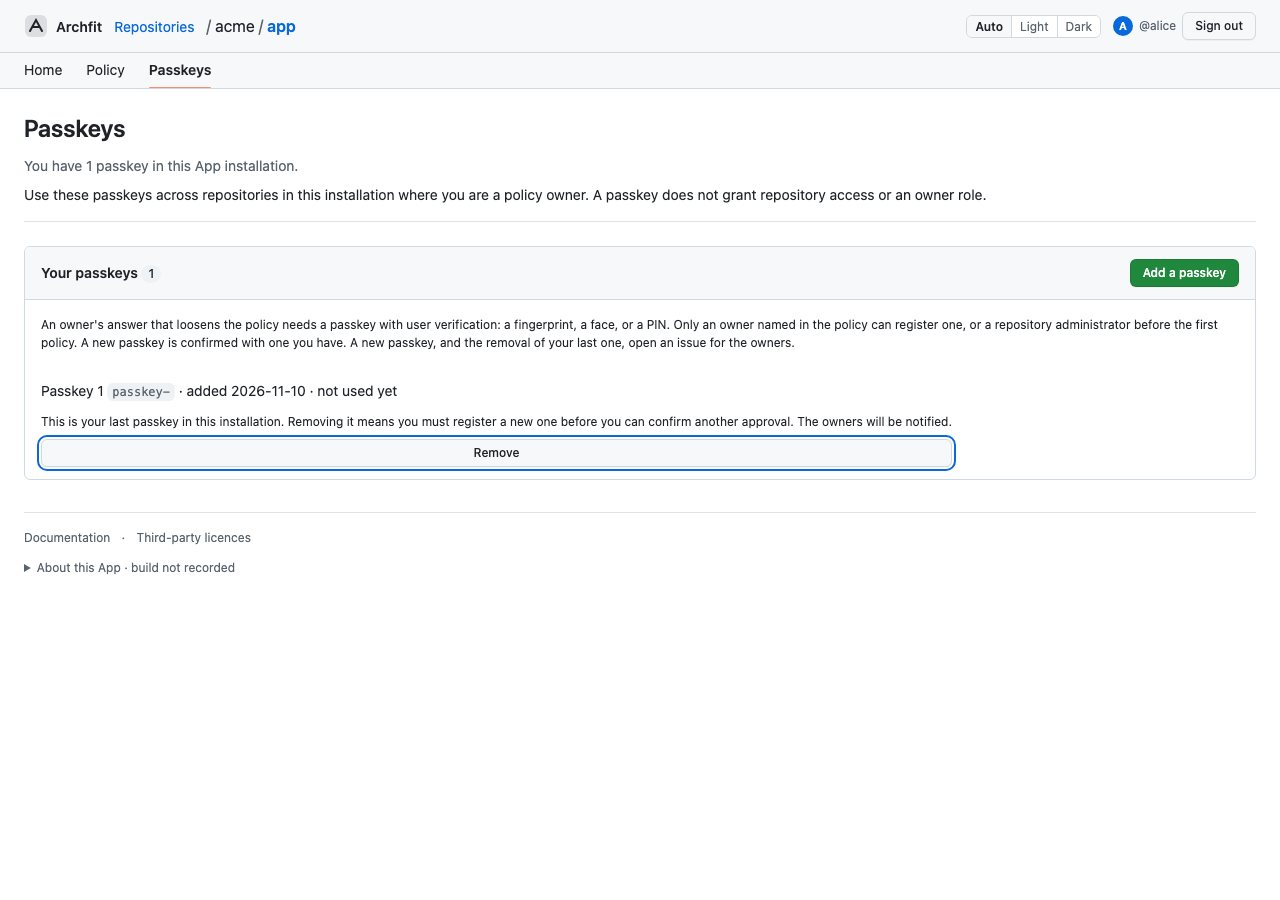
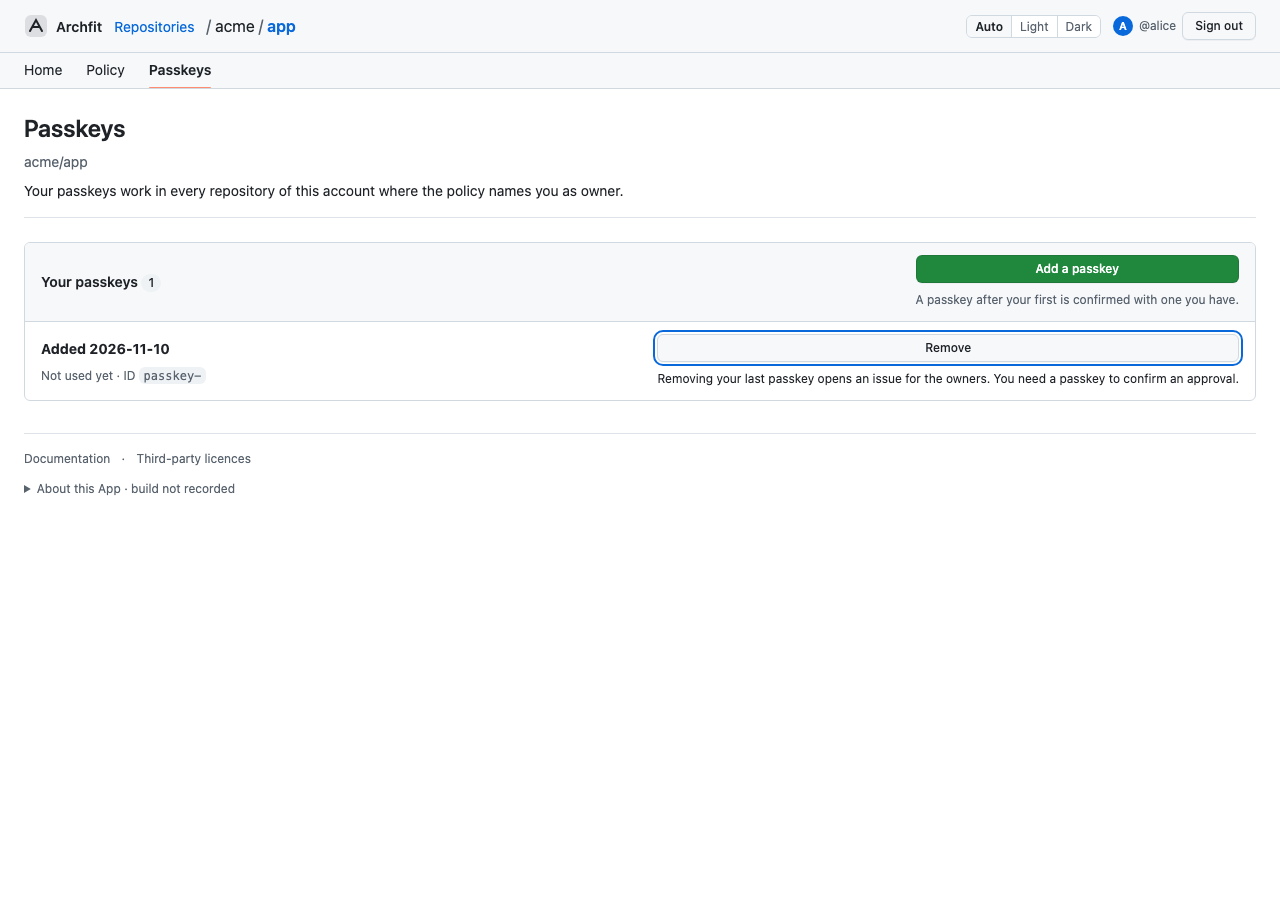
feat(web): passkeys list keys by date, names each Remove, and states one rule per control
The 60-word paragraph is gone. The scope sentence sits under the title; the add rule sits beside
Add a passkey; the last-key consequence sits beside its Remove. Keys are named Added <date>, with
last use and a short ID; each Remove names its key for screen readers. The page uses PageHead and
keeps the Back link for ?return=.

Changed region(s): [[0.0, 0.28, 0.9688, 0.56], [0.0, 0.1556, 0.7812, 0.2489], [0.0312, 0.5911, 0.1875, 0.6533]]

diff --git a/web/src/pages/Passkeys.svelte b/web/src/pages/Passkeys.svelte
@@ -1,5 +1,6 @@
 <script lang="ts">
   import Skeleton from '../components/Skeleton.svelte';
+  import PageHead from '../components/ui/PageHead.svelte';
   import { explain, explainLoad, getJSON, repoAPI, type ApiError, type Passkey, type Passkeys, type Session } from '../lib/api';
   import { firstJSON } from '../lib/early';
   import { addPasskey, removePasskey } from '../lib/passkey';
@@ -56,54 +57,44 @@
   <Skeleton rows={2} box={false} />
   <Skeleton rows={3} />
 {:else}
-  <div class="page-head">
-    <div class="stack-sm">
-      <h1>Passkeys</h1>
-      <p class="lede">
-        {list.length
-          ? `You have ${list.length} ${list.length === 1 ? 'passkey' : 'passkeys'} in this App installation.`
-          : 'You have no passkey in this App installation yet.'}
-      </p>
-      <p>Use these passkeys across repositories in this installation where you are a policy owner. A passkey does not grant repository access or an owner role.</p>
-      {#if returnTo}<a href={returnTo}>Back to {returnTo.includes('/requests/') ? 'request' : returnTo.includes('/policy') ? 'policy' : 'approval'}</a>{/if}
-    </div>
-  </div>
+  <PageHead title="Passkeys" repo={route.fullName}>
+    <p>Your passkeys work in every repository of this account where the policy names you as owner.</p>
+    {#if returnTo}<a href={returnTo}>Back to {returnTo.includes('/requests/') ? 'request' : returnTo.includes('/policy') ? 'policy' : 'approval'}</a>{/if}
+  </PageHead>
 
   <section class="box" aria-labelledby="your-passkeys">
     <div class="box-head">
       <h2 class="title-box" id="your-passkeys">Your passkeys <span class="counter">{list.length}</span></h2>
-      <button class="btn sm primary" type="button" disabled={busy} onclick={add}>Add a passkey</button>
-    </div>
-    <div class="box-body stack-sm">
-      <p class="small">
-        An owner's answer that loosens the policy needs a passkey with user verification: a fingerprint, a face, or a PIN.
-        Only an owner named in the policy can register one, or a repository administrator before the first policy.
-        {#if list.length}A new passkey is confirmed with one you have.{/if}
-        A new passkey, and the removal of your last one, open an issue for the owners.
-      </p>
+      <div class="stack-sm passkey-add">
+        <button class="btn sm primary" type="button" disabled={busy} onclick={add}>Add a passkey</button>
+        <p class="small muted">{list.length ? 'A passkey after your first is confirmed with one you have.' : 'Only an owner named in the policy can add one.'}</p>
+      </div>
     </div>
     {#if list.length}
       <ul class="plain" aria-label="Your passkeys">
-        {#each list as p, i (p.id)}
+        {#each list as p (p.id)}
           <li class="box-row row-between">
-            <span>
-              Passkey {i + 1} <code class="muted">{p.id.slice(0, 8)}</code> · added {day(p.created)} ·
-              {p.last_used ? `last used ${day(p.last_used)}` : 'not used yet'}
+            <span class="stack-sm">
+              <strong>Added {day(p.created)}</strong>
+              <span class="small muted">{p.last_used ? `Last used ${day(p.last_used)}` : 'Not used yet'} · ID <code>{p.id.slice(0, 8)}</code></span>
             </span>
-            <div class="stack-sm">
-            {#if list.length === 1}<p class="small" id="last-key">This is your last passkey in this installation. Removing it means you must register a new one before you can confirm another approval. The owners will be notified.</p>{/if}
-            {#if removing === p.id}
-              <span class="btn-group">
-                <button class="btn sm" type="button" aria-describedby={list.length === 1 ? 'last-key' : undefined} disabled={busy} onclick={() => remove(p.id)}>Confirm removal</button>
-                <button class="btn sm" type="button" disabled={busy} onclick={() => (removing = '')}>Keep it</button>
-              </span>
-            {:else}
-              <button class="btn sm" type="button" aria-describedby={list.length === 1 ? 'last-key' : undefined} disabled={busy} onclick={() => (removing = p.id)}>Remove</button>
-            {/if}
+            <div class="stack-sm passkey-remove">
+              {#if removing === p.id}
+                <span class="btn-group">
+                  <button class="btn sm" type="button" aria-describedby={list.length === 1 ? 'last-key' : undefined} disabled={busy} onclick={() => remove(p.id)}>Confirm removal</button>
+                  <button class="btn sm" type="button" disabled={busy} onclick={() => (removing = '')}>Keep it</button>
+                </span>
+              {:else}
+                <button class="btn sm" type="button" aria-label={`Remove the passkey added ${day(p.created)} (ID ${p.id.slice(0, 8)})`}
+                  aria-describedby={list.length === 1 ? 'last-key' : undefined} disabled={busy} onclick={() => (removing = p.id)}>Remove</button>
+              {/if}
+              {#if list.length === 1}<p class="small" id="last-key">Removing your last passkey opens an issue for the owners. You need a passkey to confirm an approval.</p>{/if}
             </div>
           </li>
         {/each}
       </ul>
+    {:else}
+      <p class="box-body muted">No passkeys yet. Add one to approve policy changes.</p>
     {/if}
     {#if busy}<p class="box-foot" role="status">Waiting for your passkey…</p>{/if}
     {#if notice}<p class="flash success" role="status">{notice}</p>{/if}

diff --git a/web/e2e/passkey.spec.ts b/web/e2e/passkey.spec.ts
@@ -62,13 +62,13 @@ test('passkeys: the first passkey registers with no step-up, and the list shows 
   const list: Listed[] = [];
   const writes = await open(p, page, registry(list).handlers);
   await expect(p.getByRole('heading', { name: 'Passkeys', level: 1 })).toBeVisible();
-  await expect(p.locator('.lede')).toHaveText('You have no passkey in this App installation yet.');
+  await expect(p.getByText('No passkeys yet. Add one to approve policy changes.', { exact: true })).toBeVisible();
   await expectClean(p);
 
   await p.getByRole('button', { name: 'Add a passkey' }).click();
   await expect(p.getByRole('status')).toHaveText('Passkey registered. An issue tells you and the owners.');
-  await expect(p.locator('.lede')).toHaveText('You have 1 passkey in this App installation.');
-  await expect(p.getByRole('listitem')).toContainText([/^Passkey 1 \S+ · added 2026-11-10 ·\s+not used yet/]);
+  await expect(p.locator('.counter')).toHaveText('1');
+  await expect(p.getByRole('listitem')).toContainText([/^Added 2026-11-10\s+Not used yet/]);
   expect(writes.map((w) => new URL(w.url()).pathname)).toEqual([`${api}/register`, `${api}/register/finish`]);
   expect(writes[0].postDataJSON()).toEqual({});
   await expectClean(p);
@@ -95,19 +95,19 @@ test('passkeys: a second passkey and a removal are each confirmed with a passkey
     return [200, { notice: 'Passkey removed.' }];
   };
   const writes = await open(p, page, handlers);
-  await expect(p.getByRole('listitem')).toContainText([/^Passkey 1 \S+ · added 2026-11-10 ·\s+last used 2026-11-11/]);
+  await expect(p.getByRole('listitem')).toContainText([/^Added 2026-11-10\s+Last used 2026-11-11/]);
 
   await p.getByRole('button', { name: 'Add a passkey' }).click();
   await expect(p.getByRole('status')).toHaveText('Passkey registered. An issue tells you and the owners.');
-  await expect(p.locator('.lede')).toHaveText('You have 2 passkeys in this App installation.');
+  await expect(p.locator('.counter')).toHaveText('2');
   await expectNoNotUsedWord(p);
   expect(issued.get('token-1')).toEqual({ action: 'register' });
   expect(writes[2].postDataJSON()).toEqual({ token: 'token-1' });
 
-  await p.getByRole('button', { name: 'Remove' }).first().click();
+  await p.getByRole('button', { name: /^Remove the passkey added/ }).first().click();
   await p.getByRole('button', { name: 'Confirm removal' }).click();
   await expect(p.getByRole('status')).toHaveText('Passkey removed.');
-  await expect(p.locator('.lede')).toHaveText('You have 1 passkey in this App installation.');
+  await expect(p.locator('.counter')).toHaveText('1');
   expect(writes.map((w) => new URL(w.url()).pathname)).toEqual([
     `${api}/step-up`,
     `${api}/step-up/finish`,
@@ -130,7 +130,7 @@ test('passkeys: a refused registration is the server sentence, and nothing is ad
   });
   await p.getByRole('button', { name: 'Add a passkey' }).click();
   await expect(p.getByRole('alert')).toHaveText(sentence);
-  await expect(p.locator('.lede')).toHaveText('You have no passkey in this App installation yet.');
+  await expect(p.getByText('No passkeys yet. Add one to approve policy changes.', { exact: true })).toBeVisible();
   expect(writes).toHaveLength(1);
   await expectClean(p);
 });
@@ -154,11 +154,11 @@ for (const width of [390, 1280]) {
     await docsClock(p);
     await p.setViewportSize({ width, height: 900 });
     await open(p, page, registry([{ id: 'passkey-one', created }]).handlers);
-    await expect(p.getByText('Use these passkeys across repositories', { exact: false })).toBeVisible();
+    await expect(p.getByText('Your passkeys work in every repository of this account', { exact: false })).toBeVisible();
     const row = p.getByRole('listitem');
-    await expect(row.getByText('This is your last passkey', { exact: false })).toBeVisible();
-    const remove = row.getByRole('button', { name: 'Remove', exact: true });
-    await expect(remove).toHaveAccessibleDescription(/must register a new one/);
+    await expect(row.getByText('Removing your last passkey opens an issue', { exact: false })).toBeVisible();
+    const remove = row.getByRole('button', { name: /^Remove the passkey added/ });
+    await expect(remove).toHaveAccessibleDescription(/You need a passkey to confirm an approval/);
     for (let i = 0; i < 30; i++) {
       await p.keyboard.press('Tab');
       if (await remove.evaluate((el) => el === document.activeElement)) break;

diff --git a/web/e2e/stay.spec.ts b/web/e2e/stay.spec.ts
@@ -106,7 +106,7 @@ test('passkeys: removal confirmation works with the keyboard', async ({ page }) 
   await open(page, '/r/acme/app/passkeys', {
     passkeys: { passkeys: [{ id: 'passkey-one', created: '2026-11-10T09:00:00Z' }] },
   });
-  const remove = page.getByRole('button', { name: 'Remove', exact: true });
+  const remove = page.getByRole('button', { name: /^Remove the passkey added/ });
   await expect(remove).toBeVisible();
   for (let i = 0; i < 20; i++) {
     await page.keyboard.press('Tab');

diff --git a/docs/user-guide.md b/docs/user-guide.md
@@ -243,9 +243,10 @@ Its **Repositories** link returns to `/`; no repository-specific recovery link i
 
 ![Passkeys page](images/passkeys.png)
 
-Open `/r/<owner>/<repo>/passkeys` after signing in. Passkeys belong to your account in this App installation, not just the repository used to register them. They do not grant access or an owner role in other repositories. A policy owner can register a passkey; before the first policy, a repository administrator can register one. Follow the browser's registration prompt. Registration opens a GitHub issue notifying the user and owners. A second passkey and each removal require an existing passkey. The App uses user verification for the assertion; it does not prove that the owner read the request.
+Open `/r/<owner>/<repo>/passkeys` after signing in. Your passkeys work in every repository of this account where the policy names you as owner. They do not grant access or an owner role. A policy owner can register a passkey; before the first policy, a repository administrator can register one. Follow the browser's registration prompt. Registration opens a GitHub issue notifying the user and owners. A second passkey and each removal require an existing passkey. The App uses user verification for the assertion; it does not prove that the owner read the request.
 
-Removing your last passkey requires a confirmation with an existing passkey and notifies the owners. The warning beside **Remove** explains that you must register a new key before confirming another approval.
+Each passkey is listed by the date it was added, its last use, and a short ID. **Remove** names its passkey for screen readers.
+Removing your last passkey needs a confirmation with an existing passkey and opens an issue for the owners. The sentence beside **Remove** says you need a passkey to confirm an approval.
 
 The Owner and Policy editor links preserve their return path. After successful registration, the App returns to that page, where you must still read and confirm the action. The passkey page also accepts `?return=` with an encoded same-repository request, owner action, or policy-editor path. Other destinations are ignored; failed registration never redirects.
 
